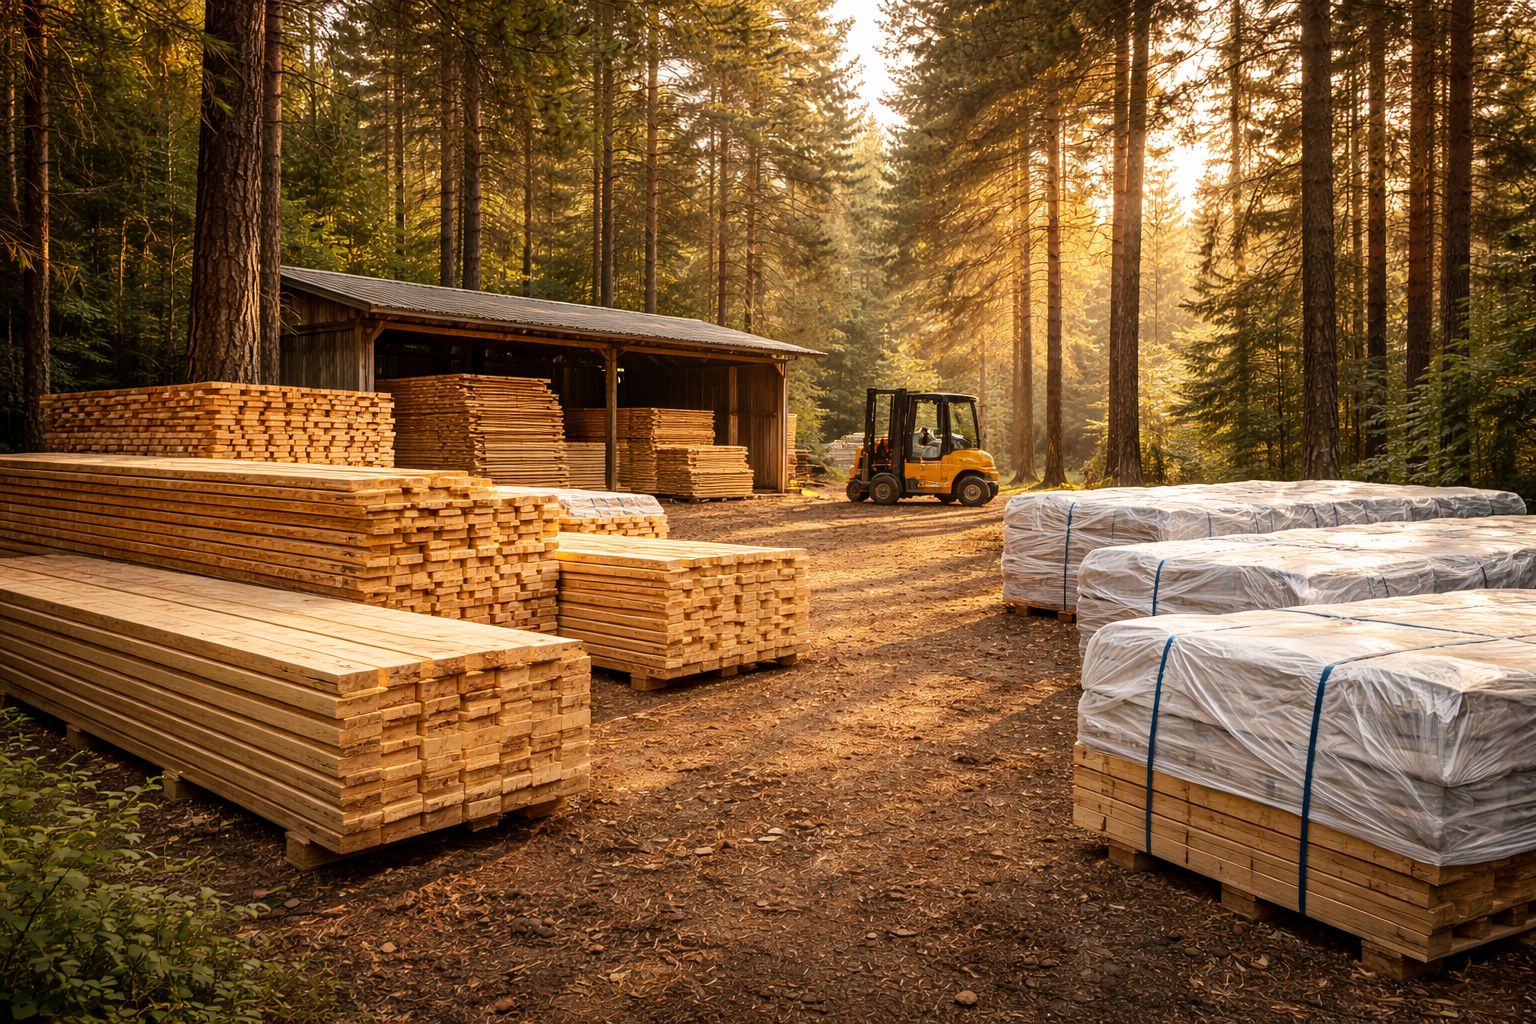
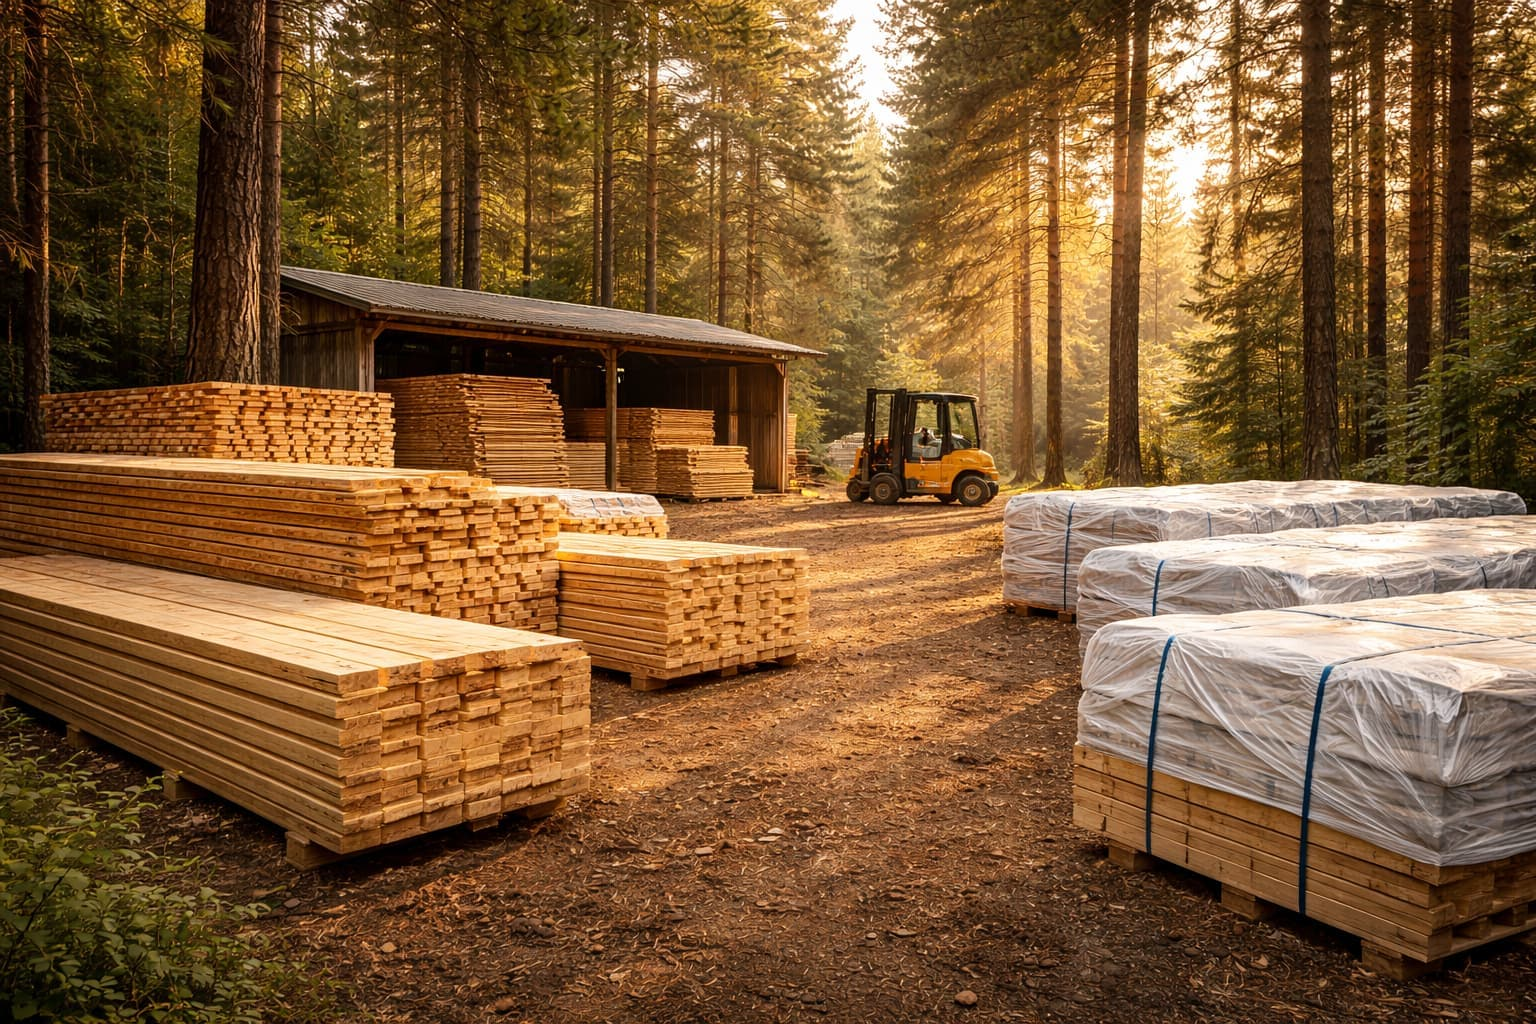
perf: оптимизация изображений и конфига Next.js для скорости
- Сжаты hero изображения: 3.5МБ → ~340КБ (-90%)
- Сжаты все prod-*.jpg: до 50-200 КБ
- Добавлены форматы avif/webp + 30-дн кэш в next.config.js
- data-cart-icon на мобильном нав (анимация летит в корзину)
- Скрипт сжатия scripts/compress-images.js

diff --git a/scripts/compress-images.js b/scripts/compress-images.js
@@ -1,0 +1,106 @@
+#!/usr/bin/env node
+/**
+ * Сжатие hero-изображений для улучшения Lighthouse score
+ * Запуск: node scripts/compress-images.js
+ */
+const sharp = require('sharp');
+const path = require('path');
+const fs = require('fs');
+
+const publicDir = path.join(__dirname, '..', 'public', 'images');
+
+const heroImages = [
+  {
+    input: path.join(publicDir, 'production', 'hero-main.jpg'),
+    output: path.join(publicDir, 'production', 'hero-main.jpg'),
+    width: 1920,
+    quality: 75,
+  },
+  {
+    input: path.join(publicDir, 'production', 'hero-about.jpg'),
+    output: path.join(publicDir, 'production', 'hero-about.jpg'),
+    width: 1920,
+    quality: 75,
+  },
+  {
+    input: path.join(publicDir, 'production', 'hero-cta.jpg'),
+    output: path.join(publicDir, 'production', 'hero-cta.jpg'),
+    width: 1920,
+    quality: 80,
+  },
+  {
+    input: path.join(publicDir, 'production', 'ChatGPT Image 19 мар. 2026 г., 23_30_17.png'),
+    output: path.join(publicDir, 'production', 'ChatGPT Image 19 мар. 2026 г., 23_30_17.png'),
+    width: 1200,
+    quality: 80,
+    png: true,
+  },
+];
+
+async function compress() {
+  for (const img of heroImages) {
+    if (!fs.existsSync(img.input)) {
+      console.log(`⚠  Не найден: ${path.basename(img.input)}`);
+      continue;
+    }
+
+    const statBefore = fs.statSync(img.input);
+    const sizeBefore = (statBefore.size / 1024).toFixed(0);
+
+    try {
+      // Читаем исходный файл в буфер сначала
+      const inputBuffer = fs.readFileSync(img.input);
+      const buffer = await sharp(inputBuffer)
+        .resize(img.width, null, {
+          withoutEnlargement: true,
+          fit: 'inside',
+        })
+        [img.png ? 'png' : 'jpeg'](
+          img.png
+            ? { quality: img.quality, compressionLevel: 9 }
+            : { quality: img.quality, mozjpeg: true }
+        )
+        .toBuffer();
+
+      // Сохраняем обратно
+      fs.writeFileSync(img.output, buffer);
+
+      const statAfter = fs.statSync(img.output);
+      const sizeAfter = (statAfter.size / 1024).toFixed(0);
+      const saved = (((statBefore.size - statAfter.size) / statBefore.size) * 100).toFixed(0);
+
+      console.log(`✅ ${path.basename(img.input)}: ${sizeBefore} КБ → ${sizeAfter} КБ (−${saved}%)`);
+    } catch (err) {
+      console.error(`❌ Ошибка ${path.basename(img.input)}:`, err.message);
+    }
+  }
+
+  // Также сжимаем production фото (prod-*.jpg)
+  console.log('\n📁 Сжатие production фотографий...');
+  const prodDir = path.join(publicDir, 'production');
+  const prodFiles = fs.readdirSync(prodDir).filter(f => f.startsWith('prod-') && f.endsWith('.jpg'));
+
+  for (const file of prodFiles) {
+    const filePath = path.join(prodDir, file);
+    const stat = fs.statSync(filePath);
+    if (stat.size < 300 * 1024) continue; // пропускаем < 300KB
+
+    const sizeBefore = (stat.size / 1024).toFixed(0);
+    try {
+      const inputBuffer = fs.readFileSync(filePath);
+      const buffer = await sharp(inputBuffer)
+        .resize(1400, null, { withoutEnlargement: true, fit: 'inside' })
+        .jpeg({ quality: 75, mozjpeg: true })
+        .toBuffer();
+      fs.writeFileSync(filePath, buffer);
+      const sizeAfter = (fs.statSync(filePath).size / 1024).toFixed(0);
+      console.log(`  ✅ ${file}: ${sizeBefore} КБ → ${sizeAfter} КБ`);
+    } catch (err) {
+      console.error(`  ❌ ${file}:`, err.message);
+    }
+  }
+
+  console.log('\n🎉 Готово! Теперь запусти git add + commit + push');
+}
+
+compress().catch(console.error);

diff --git a/components/store/mobile-bottom-nav.tsx b/components/store/mobile-bottom-nav.tsx
@@ -225,7 +225,7 @@ export function MobileBottomNav() {
 
             if (item.href) {
               return (
-                <Link key={item.id} href={item.href} onClick={haptic}>
+                <Link key={item.id} href={item.href} onClick={haptic} {...(item.id === "cart" ? { "data-cart-icon": true } : {})}>
                   {content}
                 </Link>
               );

diff --git a/next.config.js b/next.config.js
@@ -26,6 +26,8 @@ const nextConfig = {
   },
   images: {
     domains: ['localhost', 'pilo-rus.ru', 'pilmos.ru'],
+    formats: ['image/avif', 'image/webp'],
+    minimumCacheTTL: 60 * 60 * 24 * 30, // 30 дней кэш
   },
   experimental: {
     serverActions: {
